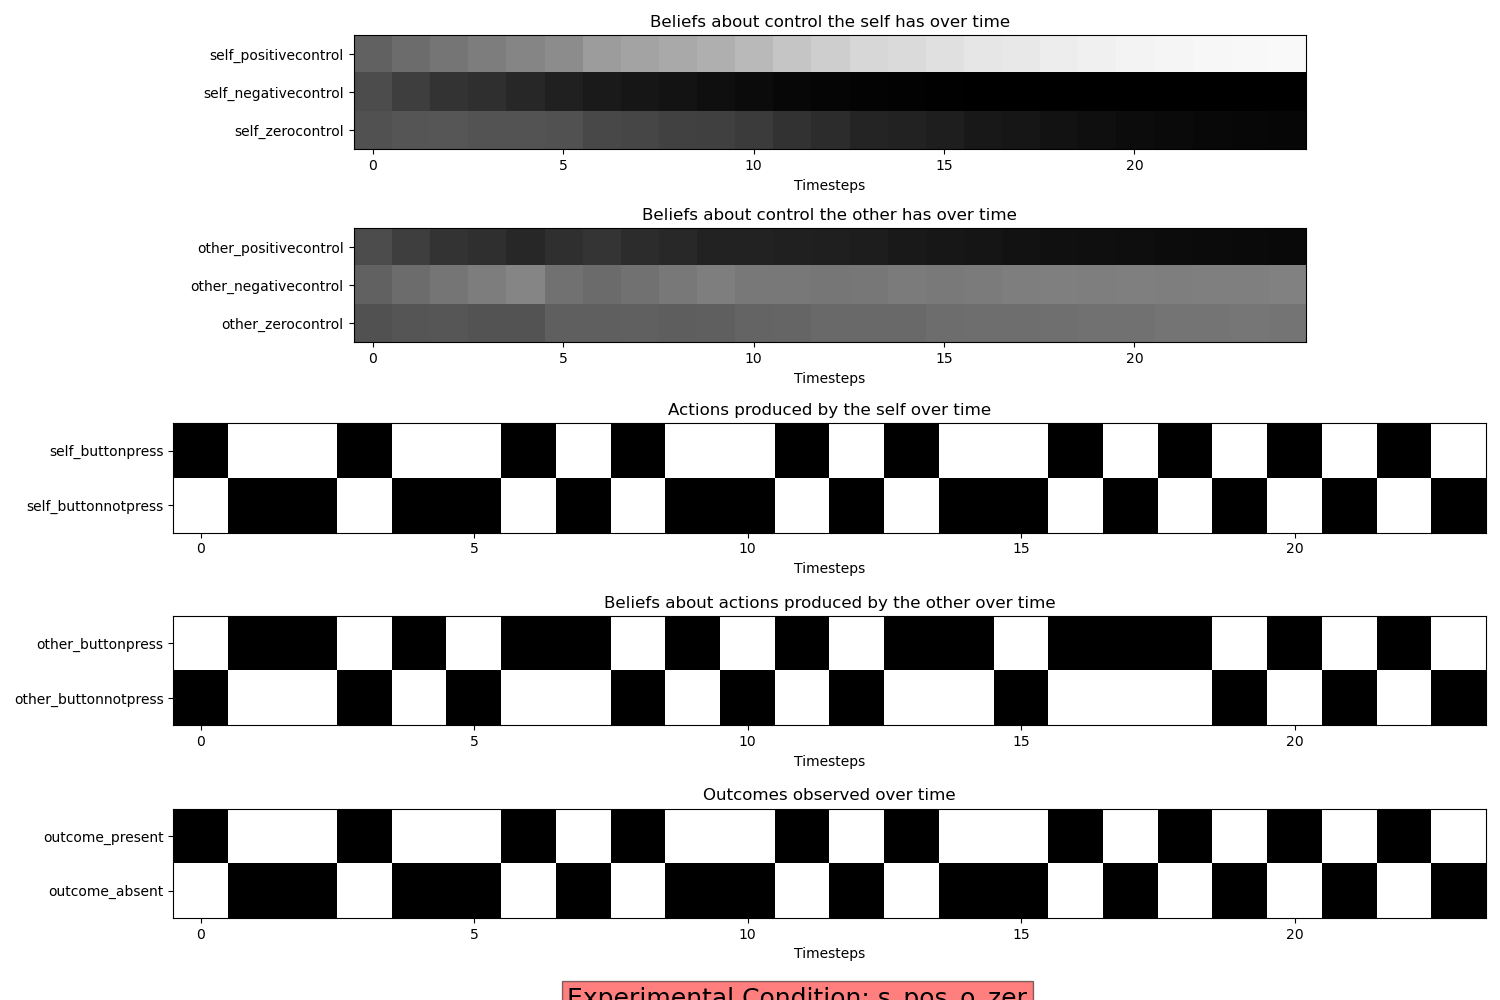
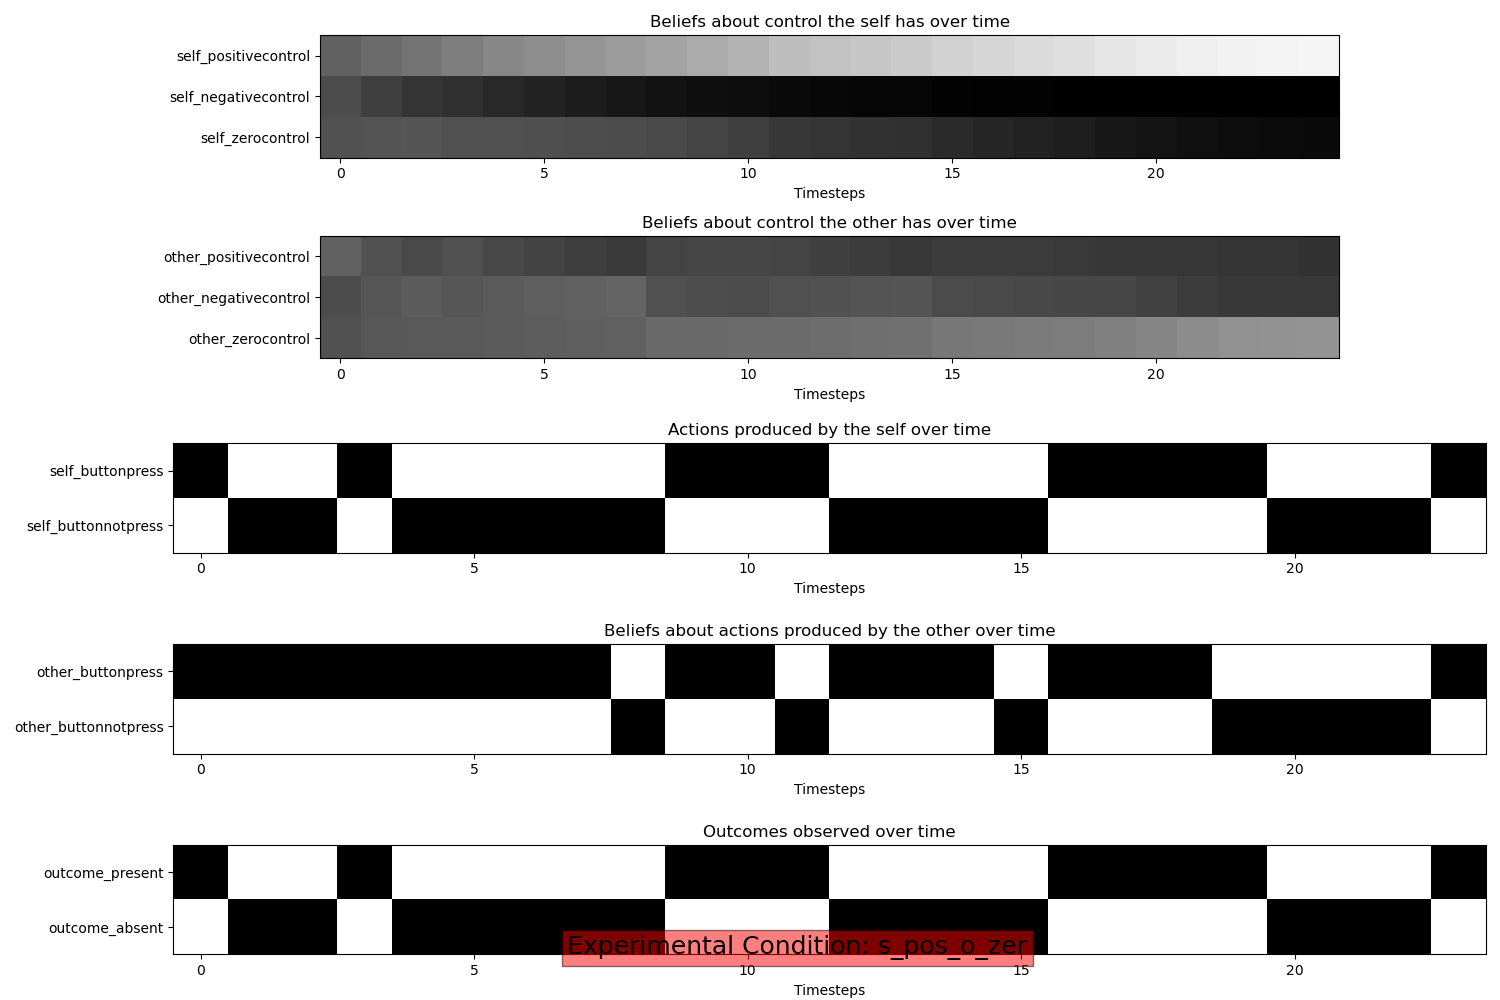
Experiment 2024-02-23-22-50-30

Changed region(s): [[0.0, 0.031, 1.0, 1.0]]

diff --git a/agency_twoagents.py b/agency_twoagents.py
@@ -501,7 +501,7 @@ def plot_all_choices_beliefs(log, env, savefig = 1):
     fig, axes = plt.subplots(nrows = 5, ncols = 1, figsize = (15,10))
     
     exp_cond_text = f'Experimental Condition: {env.expcondition}'
-    plt.text(0.3, 0.0, exp_cond_text, transform=plt.gca().transAxes,
+    plt.text(0.3, -0.1, exp_cond_text, transform=plt.gca().transAxes,
              fontsize = 18, bbox = dict(facecolor = 'red', alpha = 0.5))
 
     axes[0].imshow(log['belief_self_context_hist'], cmap = 'gray', vmin=0, vmax=1)
